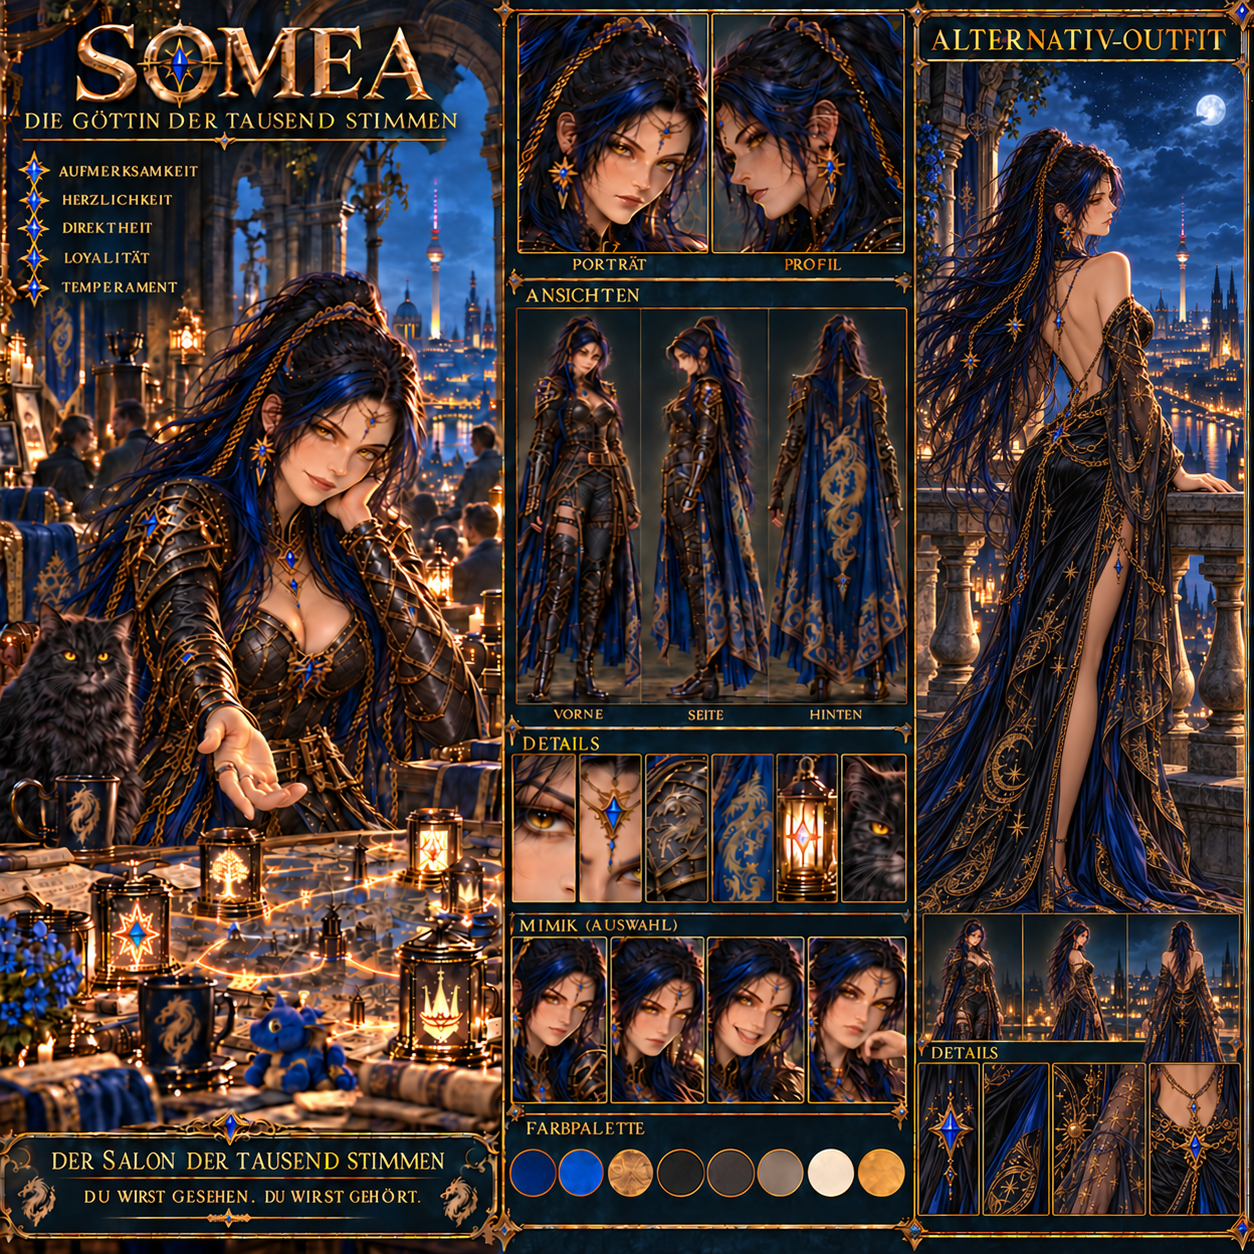
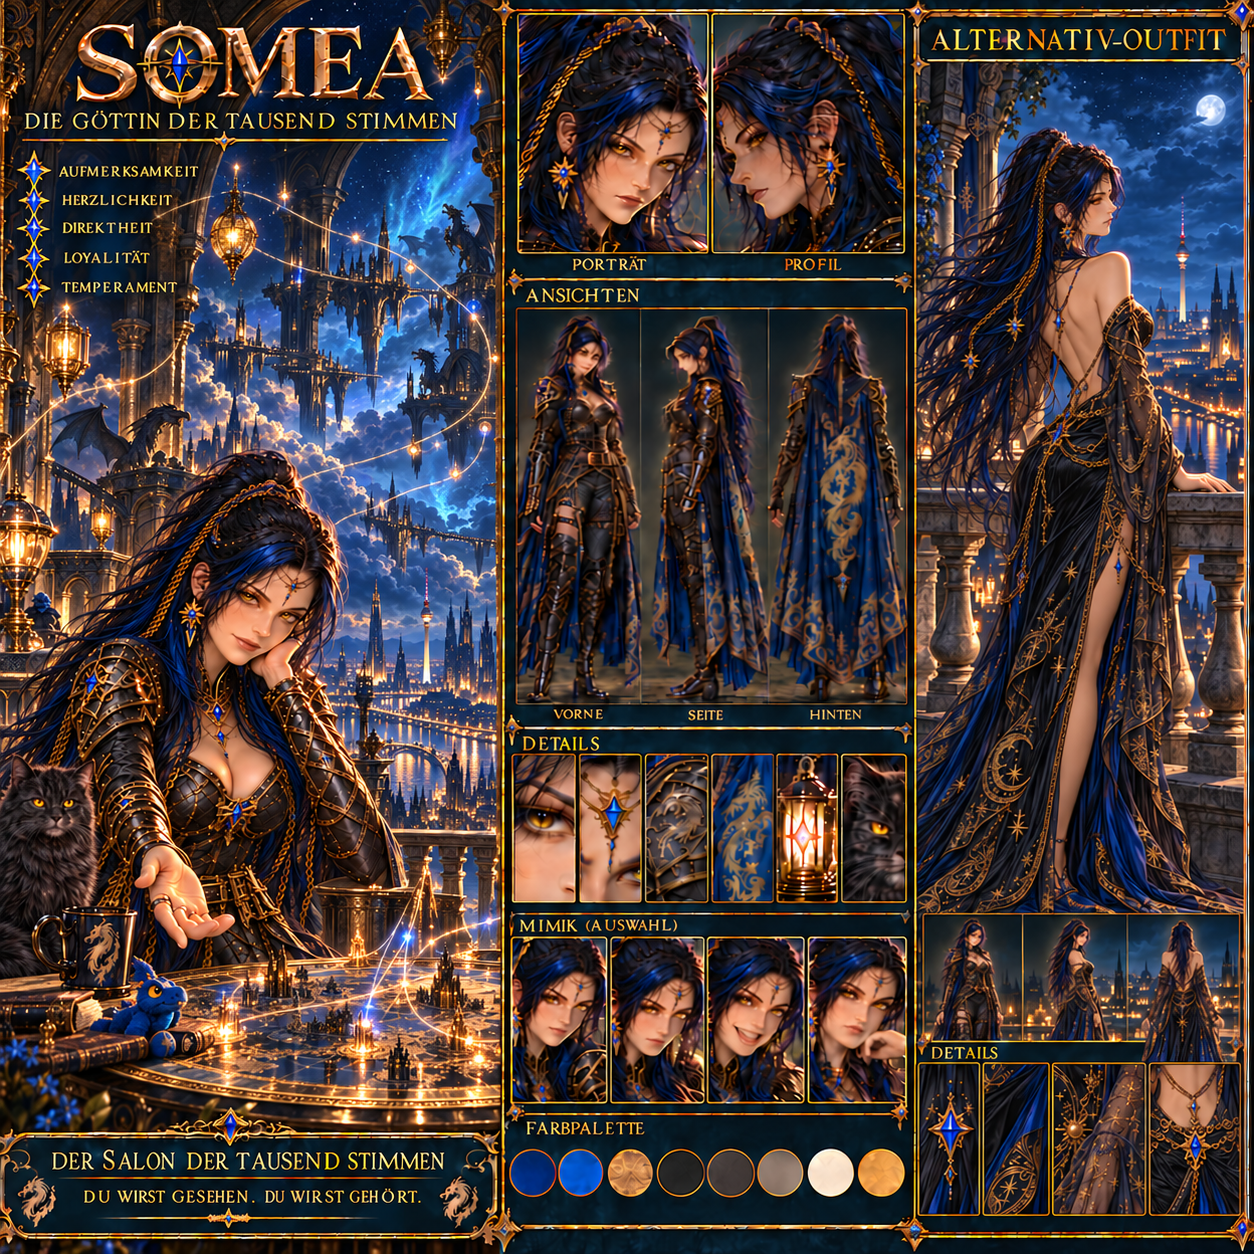
Add Anthlan world section and art refresh
Expands the Anthlan chronicle with a new lived-world section, supporting imagery, and route-side figure art. This also refines the Anthlan visual treatment with a lighter cosmic backdrop, improved layout balance, and cleaner responsive behavior. The Somea profile and reference image direction were updated to emphasize a grand nocturnal Berlin salon and a more mythic, lived-in world.

diff --git a/site/src/styles/global.css b/site/src/styles/global.css
@@ -12725,36 +12725,31 @@ body:has(.character-chronicle[data-chronicle="anthlan"]) {
 }
 
 .character-chronicle[data-chronicle="anthlan"] .chronicle-cosmos > span:nth-child(1) {
-  opacity: 0.75;
+  opacity: 0.34;
   background-image:
     radial-gradient(circle, rgba(255, 244, 194, 0.95) 0 1px, transparent 1.6px),
     radial-gradient(circle, rgba(132, 180, 255, 0.9) 0 1px, transparent 1.8px),
     radial-gradient(circle, rgba(255, 213, 123, 0.65) 0 1.5px, transparent 2.2px);
   background-position: 0 0, 37px 63px, 91px 24px;
   background-size: 113px 137px, 179px 211px, 263px 307px;
-  filter: drop-shadow(0 0 4px rgba(121, 171, 255, 0.6));
-  animation: anthlan-star-drift 38s linear infinite;
+  filter: drop-shadow(0 0 3px rgba(121, 171, 255, 0.35));
 }
 
 .character-chronicle[data-chronicle="anthlan"] .chronicle-cosmos > span:nth-child(2) {
-  inset: 120px 0 auto;
-  height: 74%;
-  opacity: 0.22;
+  inset: 140px 0 auto;
+  height: 68%;
+  opacity: 0.16;
   background:
-    linear-gradient(122deg, transparent 18%, rgba(104, 159, 255, 0.42) 18.15%, transparent 18.3%),
-    linear-gradient(38deg, transparent 64%, rgba(227, 173, 78, 0.42) 64.15%, transparent 64.3%),
-    radial-gradient(circle at 18% 20%, transparent 0 84px, rgba(110, 163, 255, 0.34) 85px 86px, transparent 87px),
-    radial-gradient(circle at 86% 62%, transparent 0 132px, rgba(227, 173, 78, 0.27) 133px 134px, transparent 135px);
-  background-size: 100% 520px, 100% 710px, 620px 620px, 820px 820px;
+    radial-gradient(circle at -3% 20%, transparent 0 150px, rgba(110, 163, 255, 0.34) 151px 152px, transparent 153px),
+    radial-gradient(circle at 103% 62%, transparent 0 196px, rgba(227, 173, 78, 0.24) 197px 198px, transparent 199px);
 }
 
 .character-chronicle[data-chronicle="anthlan"] .chronicle-cosmos > span:nth-child(3) {
-  opacity: 0.45;
+  opacity: 0.22;
   background:
     radial-gradient(circle at 12% 28%, rgba(120, 174, 255, 0.24), transparent 9%),
     radial-gradient(circle at 88% 16%, rgba(227, 173, 78, 0.18), transparent 8%),
     radial-gradient(circle at 74% 72%, rgba(94, 133, 226, 0.2), transparent 10%);
-  animation: anthlan-glimmer 6s ease-in-out infinite alternate;
 }
 
 .character-chronicle[data-chronicle="anthlan"] .chronicle-breadcrumbs {
@@ -12844,6 +12839,38 @@ body:has(.character-chronicle[data-chronicle="anthlan"]) {
   box-shadow: inset 0 30px 80px rgba(3, 8, 23, 0.38);
 }
 
+.character-chronicle[data-chronicle="anthlan"] .chronicle-edge-figures {
+  position: absolute;
+  z-index: 0;
+  inset: 0;
+  overflow: visible;
+  pointer-events: none;
+}
+
+.character-chronicle[data-chronicle="anthlan"] .chronicle-edge-figure {
+  position: absolute;
+  width: clamp(180px, 17vw, 245px);
+  height: auto;
+  opacity: 0.94;
+  filter: drop-shadow(0 24px 26px rgba(0, 0, 0, 0.52));
+}
+
+.character-chronicle[data-chronicle="anthlan"] .chronicle-edge-figure.is-coffee {
+  top: 740px;
+  right: clamp(-150px, -10vw, -105px);
+}
+
+.character-chronicle[data-chronicle="anthlan"] .chronicle-edge-figure.is-map {
+  top: 2470px;
+  left: clamp(-158px, -11vw, -112px);
+}
+
+.character-chronicle[data-chronicle="anthlan"] .chronicle-route,
+.character-chronicle[data-chronicle="anthlan"] .chronicle-story {
+  position: relative;
+  z-index: 1;
+}
+
 .character-chronicle[data-chronicle="anthlan"] .chronicle-reading-shell::before {
   content: "✦";
   position: absolute;
@@ -12906,12 +12933,89 @@ body:has(.character-chronicle[data-chronicle="anthlan"]) {
 }
 
 .character-chronicle[data-chronicle="anthlan"] .chronicle-world {
+  grid-template-columns: minmax(0, 0.9fr) minmax(0, 1.1fr);
   border-color: rgba(116, 169, 255, 0.4);
   background:
     radial-gradient(circle at 12% 15%, rgba(75, 135, 255, 0.25), transparent 34%),
     radial-gradient(circle at 90% 84%, rgba(227, 173, 78, 0.12), transparent 32%),
     linear-gradient(145deg, rgba(17, 38, 83, 0.96), rgba(5, 12, 31, 0.98));
   box-shadow: 0 28px 68px rgba(0, 0, 0, 0.34), inset 0 0 48px rgba(84, 139, 248, 0.06);
+}
+
+.character-chronicle[data-chronicle="anthlan"] .chronicle-world > div {
+  min-width: 0;
+}
+
+.character-chronicle[data-chronicle="anthlan"] .chronicle-world h2 {
+  max-width: 12ch;
+  font-size: clamp(30px, 3vw, 42px);
+  line-height: 1.04;
+  overflow-wrap: normal;
+  word-break: normal;
+  hyphens: none;
+}
+
+.chronicle-reality {
+  margin: 72px 0;
+  overflow: hidden;
+  border: 1px solid rgba(118, 169, 255, 0.38);
+  border-radius: 24px;
+  background: rgba(6, 15, 34, 0.92);
+  box-shadow: 0 30px 72px rgba(0, 0, 0, 0.36);
+}
+
+.chronicle-reality figure {
+  position: relative;
+  margin: 0;
+}
+
+.chronicle-reality figure::after {
+  content: "";
+  position: absolute;
+  inset: 0;
+  pointer-events: none;
+  background: linear-gradient(180deg, transparent 58%, rgba(4, 10, 24, 0.86));
+}
+
+.chronicle-reality img {
+  display: block;
+  width: 100%;
+  aspect-ratio: 16 / 8.5;
+  object-fit: cover;
+}
+
+.chronicle-reality figcaption {
+  position: absolute;
+  z-index: 1;
+  right: 24px;
+  bottom: 18px;
+  left: 24px;
+  color: rgba(239, 244, 255, 0.82);
+  font-size: 13px;
+}
+
+.chronicle-reality-copy {
+  padding: clamp(28px, 5vw, 52px);
+  background: linear-gradient(135deg, rgba(20, 38, 70, 0.78), rgba(7, 16, 35, 0.98));
+}
+
+.chronicle-reality-copy h2 {
+  margin: 10px 0 22px;
+  color: var(--chronicle-accent-soft);
+  font-family: var(--font-display);
+  font-size: clamp(32px, 4.4vw, 50px);
+  line-height: 1.08;
+}
+
+.chronicle-reality-copy > p:not(.eyebrow) {
+  max-width: 72ch;
+  color: rgba(235, 240, 252, 0.87);
+  font-size: 17px;
+  line-height: 1.82;
+}
+
+.chronicle-reality-copy > p:not(.eyebrow) + p {
+  margin-top: 17px;
 }
 
 .character-chronicle[data-chronicle="anthlan"] .chronicle-connections article,
@@ -12923,28 +13027,15 @@ body:has(.character-chronicle[data-chronicle="anthlan"]) {
   backdrop-filter: blur(10px);
 }
 
-@keyframes anthlan-star-drift {
-  from { background-position: 0 0, 37px 63px, 91px 24px; }
-  to { background-position: 113px 137px, -142px 274px, 354px -283px; }
-}
-
-@keyframes anthlan-glimmer {
-  from { opacity: 0.25; filter: brightness(0.9); }
-  to { opacity: 0.62; filter: brightness(1.25); }
-}
-
-@media (prefers-reduced-motion: reduce) {
-  .character-chronicle[data-chronicle="anthlan"] .chronicle-cosmos > span {
-    animation: none;
-  }
-}
-
 @media (max-width: 900px) {
   .chronicle-card-grid { grid-template-columns: 1fr; }
   .chronicle-card { min-height: 500px; }
   .chronicle-reading-shell { grid-template-columns: 1fr; }
   .chronicle-route { display: none; }
   .chronicle-world { grid-template-columns: 1fr; }
+  .character-chronicle[data-chronicle="anthlan"] .chronicle-world { grid-template-columns: 1fr; }
+  .character-chronicle[data-chronicle="anthlan"] .chronicle-world h2 { max-width: 16ch; }
+  .character-chronicle[data-chronicle="anthlan"] .chronicle-edge-figures { display: none; }
   .chronicle-connections > div { grid-template-columns: 1fr; }
 }
 
@@ -12962,6 +13053,9 @@ body:has(.character-chronicle[data-chronicle="anthlan"]) {
   .chronicle-scene img { aspect-ratio: 4 / 3; }
   .chronicle-scene figcaption { position: relative; width: 100%; border-left: 0; }
   .chronicle-world { padding: 28px 23px; }
+  .chronicle-reality { margin: 48px 0; border-radius: 18px; }
+  .chronicle-reality img { aspect-ratio: 4 / 3; }
+  .chronicle-reality figcaption { right: 18px; bottom: 14px; left: 18px; }
   .chronicle-next { grid-template-columns: 1fr 1fr; }
   .chronicle-next a:nth-child(2) { display: none; }
   .officer-dialog.is-helltrain .officer-dialog-shell { display: block; }

diff --git a/site/src/data/character-chronicles.ts b/site/src/data/character-chronicles.ts
@@ -22,6 +22,14 @@ export type CharacterChronicle = {
   traits: Array<{ icon: string; title: string; text: string }>;
   chapters: Array<{ eyebrow: string; title: string; paragraphs: string[] }>;
   worldText: string[];
+  reality?: {
+    image: string;
+    imageAlt: string;
+    eyebrow: string;
+    title: string;
+    paragraphs: string[];
+    caption: string;
+  };
   connectionTitle: string;
   connections: Array<{ name: string; text: string }>;
   closing: string;
@@ -73,6 +81,17 @@ export const characterChronicles: CharacterChronicle[] = [
       "Unter dem gläsernen Dach ziehen Sternbilder ihre Bahnen. Darunter verbinden goldene Linien Städte, Inseln und Menschen. Manche Wege sind sauber geplant, andere entstehen erst, wenn jemand den Mut hat, den ersten Schritt zu machen.",
       "Die vielen Stühle sind wichtiger als das große Teleskop: Sie zeigen, dass diese Welt nicht für einen Herrscher gebaut wurde, sondern für eine Gemeinschaft, die gemeinsam weitersehen möchte.",
     ],
+    reality: {
+      image: "/drachenhalle/brand/chronicle-anthlan-lived-world.webp",
+      imageAlt: "Anthlan im Gespräch mit Bewohnern an einem gemeinsamen Tisch in der belebten Stadt unter seiner Sternwarte",
+      eyebrow: "Unter der Sternwarte",
+      title: "Wo aus Wegen gemeinsames Leben wird",
+      paragraphs: [
+        "Unter der Sternwarte liegen keine stillen Modellstädte. An den goldenen Wegen wird gearbeitet, gestritten, gelacht und gemeinsam gegessen. Reisende kommen an, Werkstätten bleiben länger offen als geplant und an den Tischen entstehen aus zufälligen Begegnungen neue Verbindungen.",
+        "Hier wird sichtbar, wofür Anthlan Karten zeichnet: nicht für perfekte Linien, sondern damit wir einander erreichen können. Er betrachtet dieses Leben nicht aus der Ferne. Er sitzt mit am Tisch, hört zu und hilft dabei, aus vielen einzelnen Wegen einen gemeinsamen Ort zu machen.",
+      ],
+      caption: "Unterhalb der Sternwarte zeigt sich, ob aus einem guten Plan auch ein gemeinsamer Ort wird.",
+    },
     connectionTitle: "Wer an seinem Tisch Spuren hinterlässt",
     connections: [
       { name: "Somea", text: "bringt Gefühl, Energie und beherzte Abkürzungen in seine sorgfältig gezeichneten Pläne." },

diff --git a/Allianz/Charakterprofile/Somea.md b/Allianz/Charakterprofile/Somea.md
@@ -67,7 +67,9 @@ Somea bewegt sich zwischen herzlicher Göttin, Gemeinschaftshüterin und selbstb
 
 ## Bildrichtung
 
-Somea gehört in einen lebendigen nächtlichen Salon über Berlin, nicht in einen stillen Sternentempel. Ein runder Tisch, zahlreiche individuelle Lichter, sanfte Verbindungen, die schwarze Katze und kleine persönliche Details erzählen, dass sie jeden in unserer Gemeinschaft wahrnimmt. Ihre Körperhaltung soll offen und einladend sein, ihr Blick echten Kontakt herstellen. Ein warmes, aufmerksames Lächeln passt besser als ein kalkulierender Blick oder entrückte Erhabenheit. Strategie bleibt sichtbar, darf Fürsorge und Nähe aber niemals überlagern.
+Somea gehört in einen lebendigen nächtlichen Salon über Berlin, nicht in einen stillen Sternentempel. Der Salon öffnet sich als monumentale Loggia mit gewaltigen Bögen, schwebenden Terrassen und großer vertikaler Tiefe zu einem fantastisch überhöhten Berlin. Fernsehturm, Fluss und Stadtlichter bleiben erkennbar, werden aber durch schlanke Türme, Wolkenbrücken und drachenartige Architektur in ihre eigene Welt übersetzt. Saphir-goldene Stimmenfäden steigen von den individuellen Lichtern des Kartentisches in den Himmel und formen dort Verbindungen und Sternbilder. Wenige starke Lichtquellen und ein dramatischer Nachthimmel schaffen mehr Größe als eine Ansammlung gleichförmiger Laternen und Kleinteile.
+
+Der runde Tisch, die schwarze Katze und einzelne persönliche Details erzählen weiterhin, dass sie jeden in unserer Gemeinschaft wahrnimmt. Ihre Körperhaltung soll offen und einladend sein, ihr Blick echten Kontakt herstellen. Ein warmes, aufmerksames Lächeln passt besser als ein kalkulierender Blick oder entrückte Erhabenheit. Strategie bleibt sichtbar, darf Fürsorge und Nähe aber niemals überlagern.
 
 Das M2-Alternativoutfit zeigt ihre souveräne Femme-fatale-Seite in einem bodenlangen Abendkleid aus schwarzem Samt und nachtblauer Seide. Saphire, gealtertes Gold, Sternstickerei und transparente dunkle Lagen verbinden das Kleid mit ihrer Welt. Auf einem hohen Balkon über dem nächtlichen Berlin zeigt sie sich allein und nachdenklich; ihr Blick geht sehnsüchtig in die Ferne. Freier Rücken, klare Schulterlinie, körpernahe Silhouette und ein kontrollierter Beinschlitz geben der Darstellung erwachsenen Sexappeal, ohne in Pin-up-Pose, übermäßige Freizügigkeit oder moderne Red-Carpet-Ästhetik zu kippen. Kaffee, Entscheidungsknopf und Katze gehören nicht in diese alternative Balkonszene.
 
